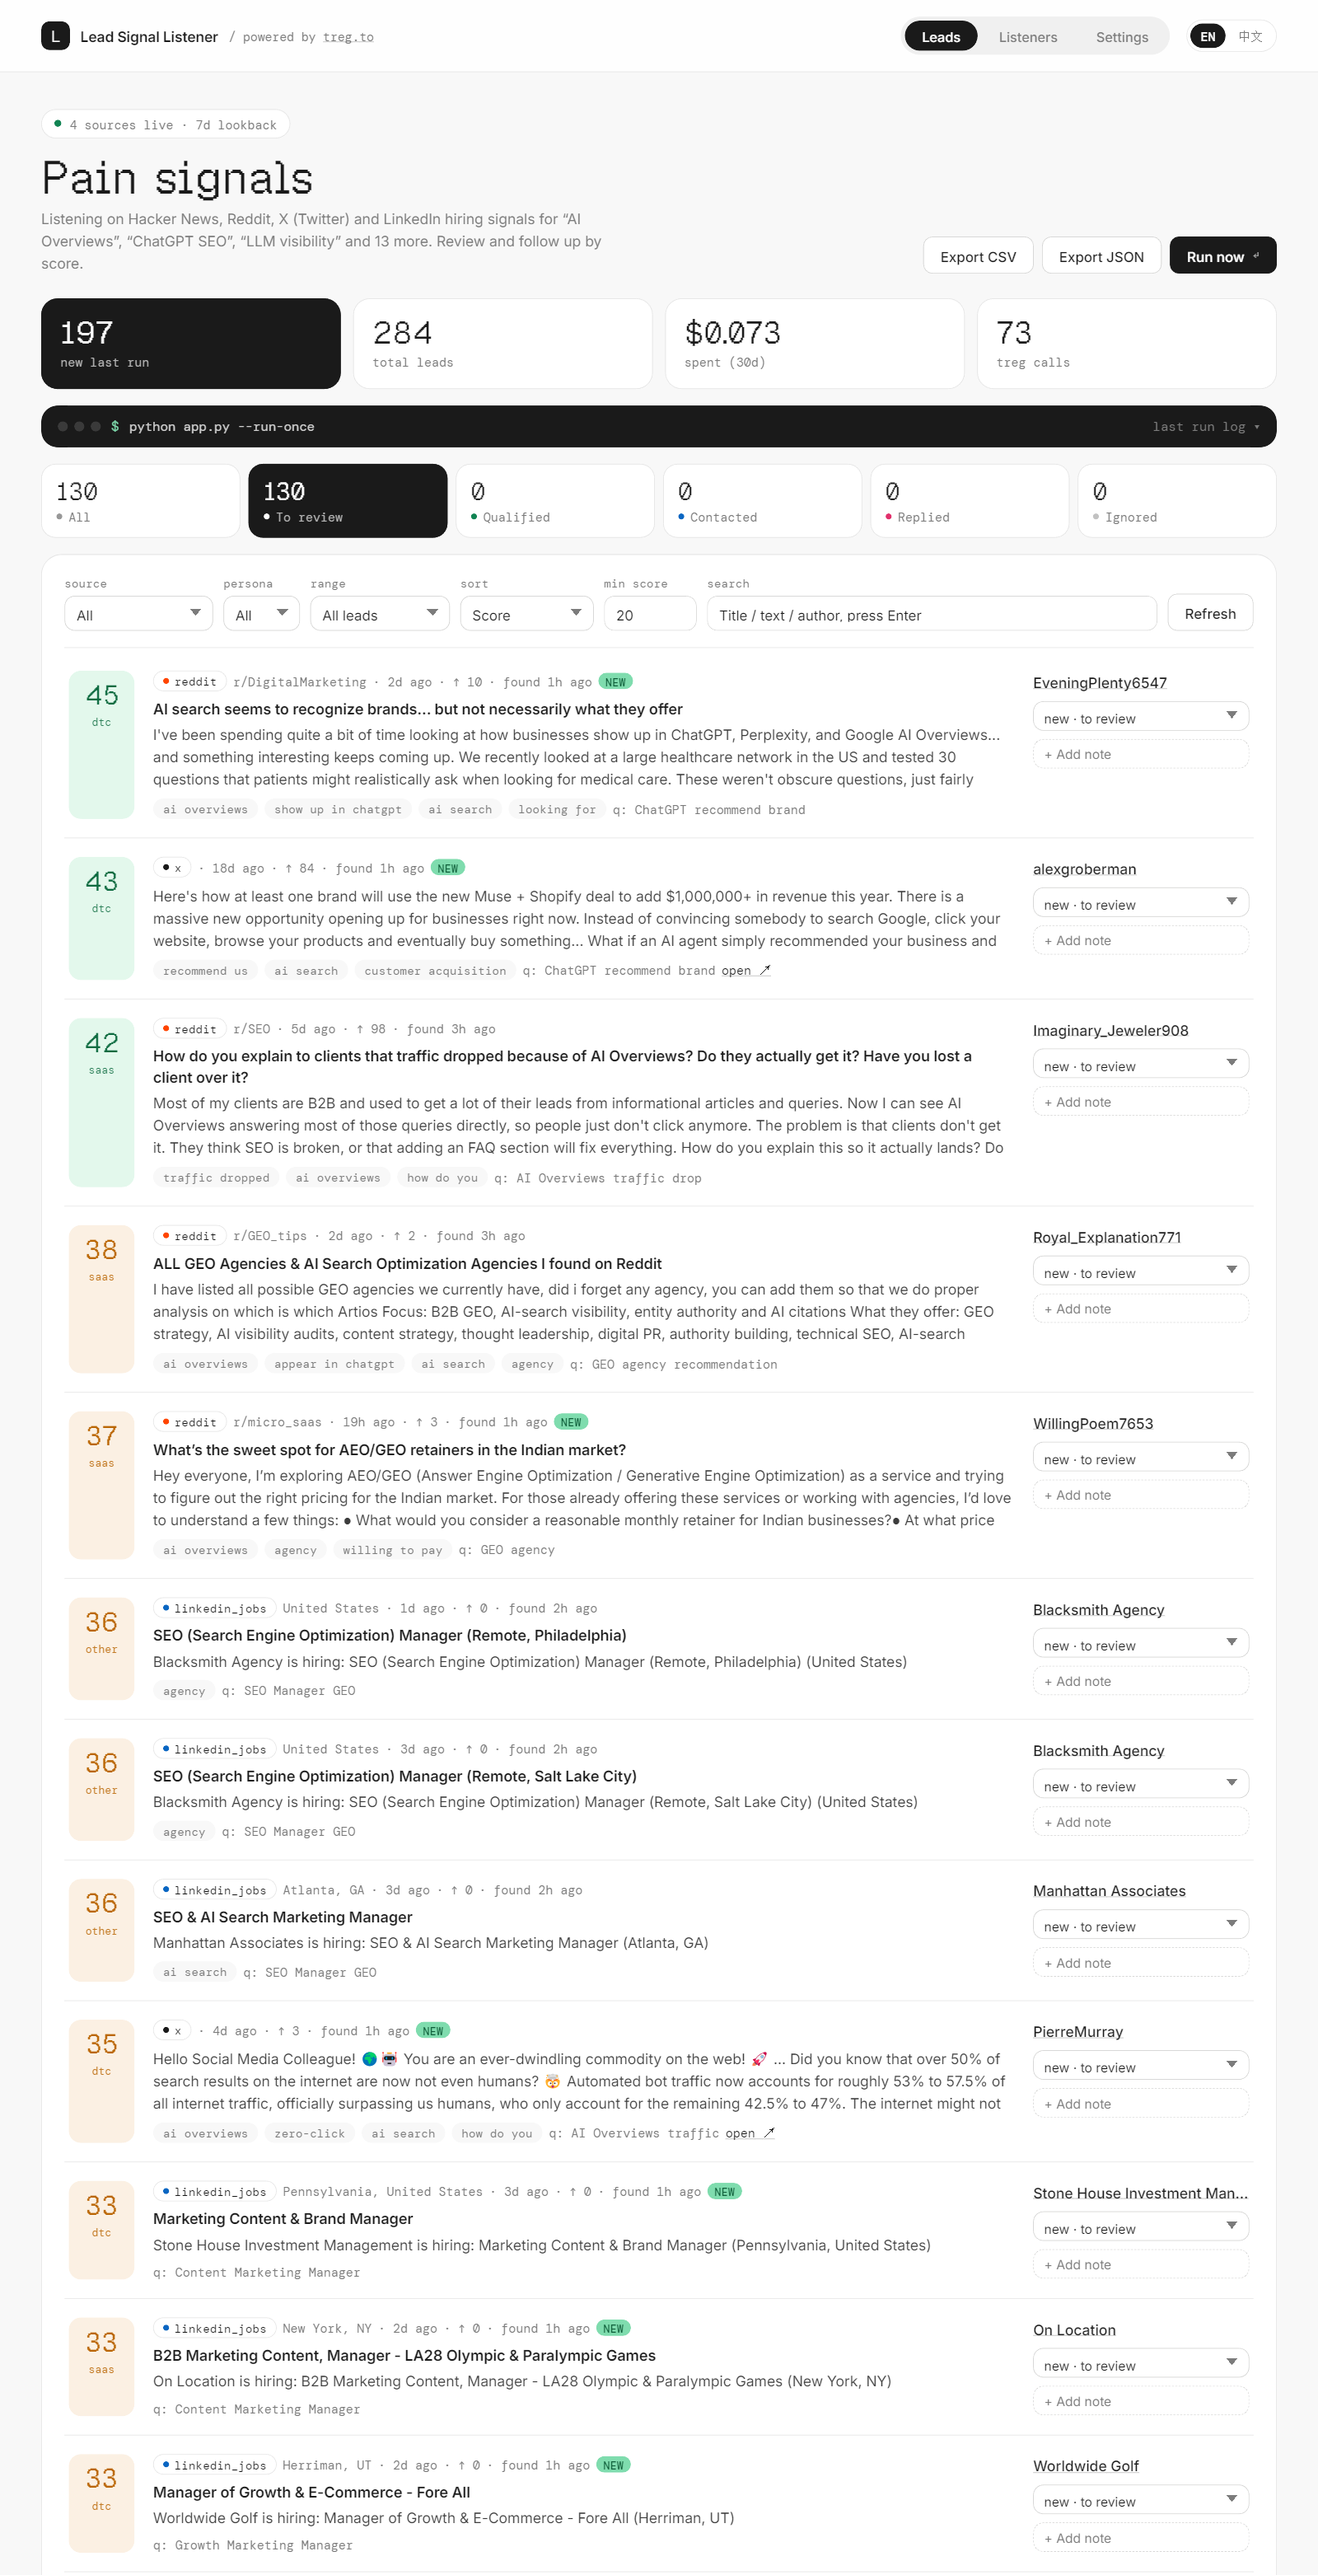
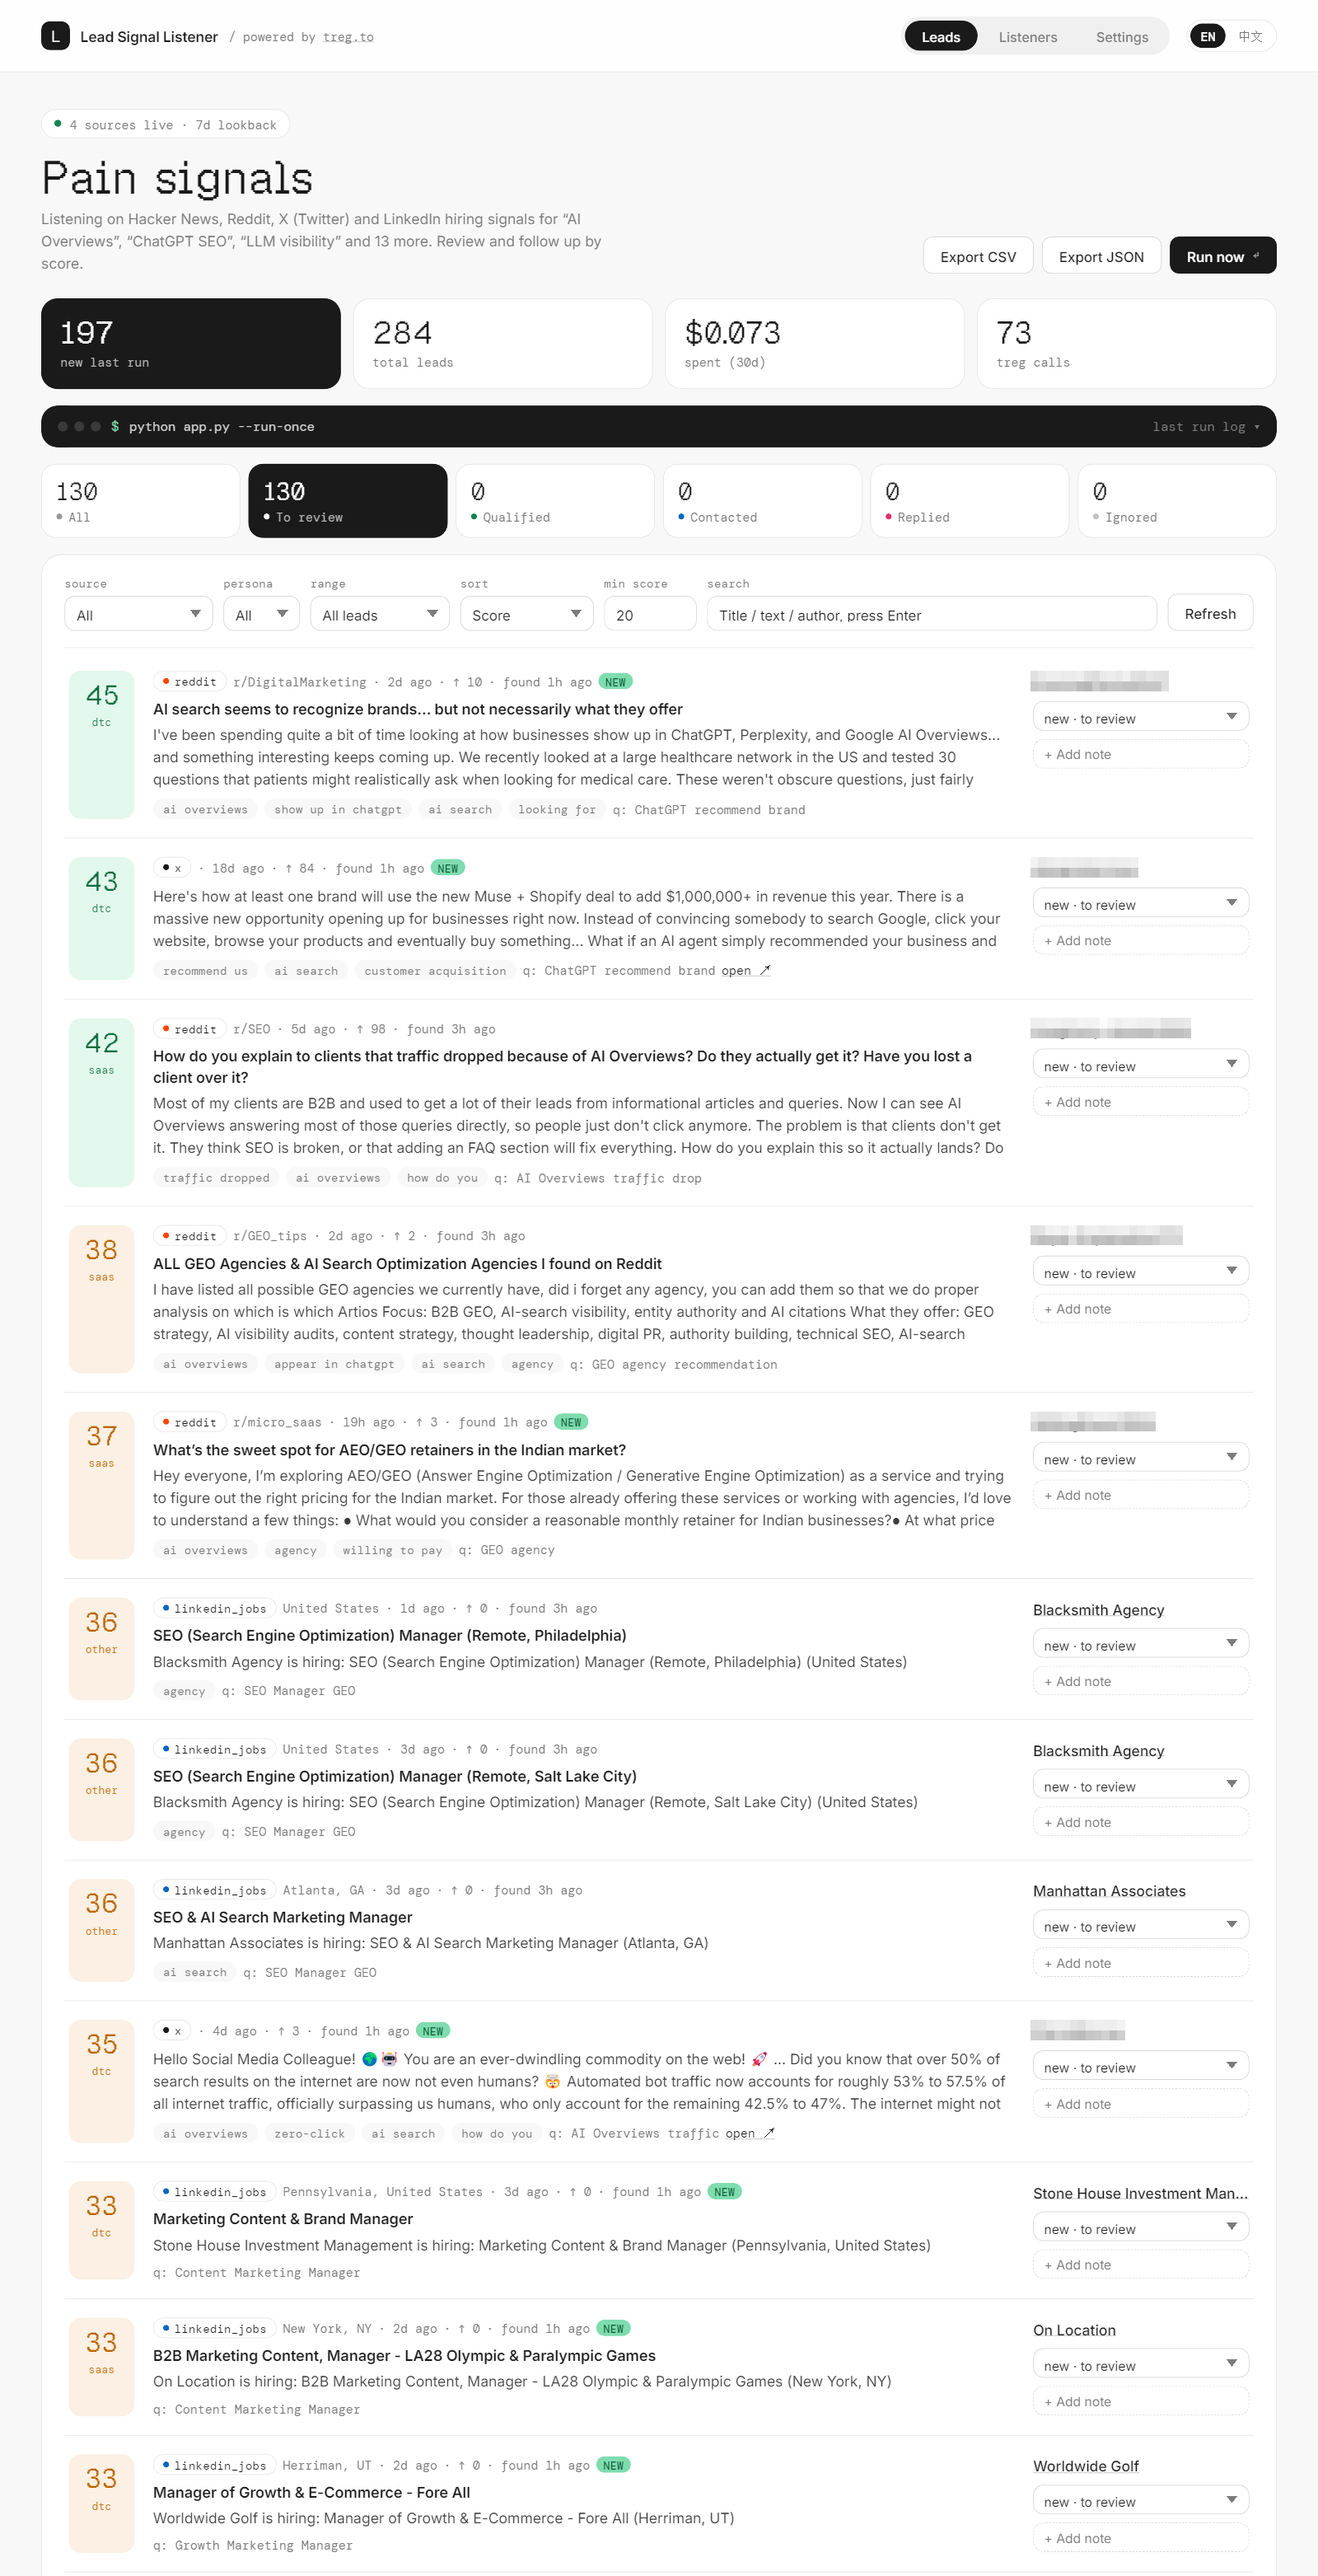
README: blur personal usernames in leads screenshots

diff --git a/README.md b/README.md
@@ -17,7 +17,7 @@ Lead Signal Listener is a local, open-source lead discovery tool. It listens to 
 
 </details>
 
-<sub>The leads screenshot shows real results from one run of the default keywords (284 leads, $0.073 in Treg calls). The listeners screenshot uses a demo configuration.</sub>
+<sub>The leads screenshot shows real results from one run of the default keywords (284 leads, $0.073 in Treg calls), with personal usernames blurred. The listeners screenshot uses a demo configuration.</sub>
 
 ---
 
